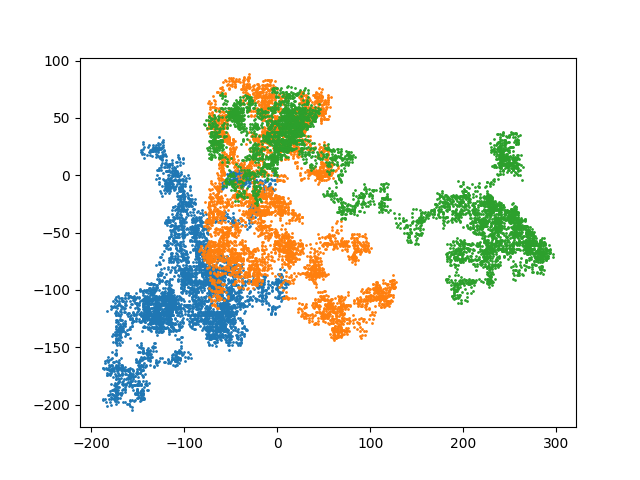
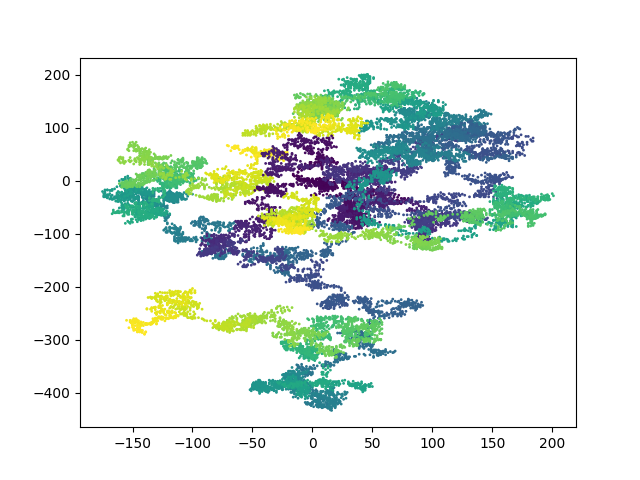
added colormap to the scatter plot function

diff --git a/rw_visualization.py b/rw_visualization.py
@@ -7,7 +7,9 @@ while True:
     rw = RandomWalk()
     rw.fillWalk()
 
-    plt.scatter(rw.xValues, rw.yValues, s=1)
+    #add color map and plot points
+    pointNumbers = list(range(rw.numPoints))
+    plt.scatter(rw.xValues, rw.yValues, c=pointNumbers, cmap=plt.cm.viridis, s=1)
     plt.savefig("RandWalk.png")
 
     keepRunning = input("Make another walk? (y/n): ")
